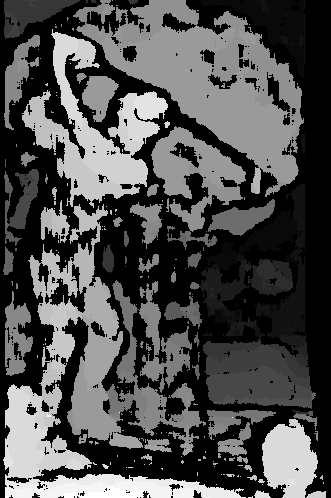
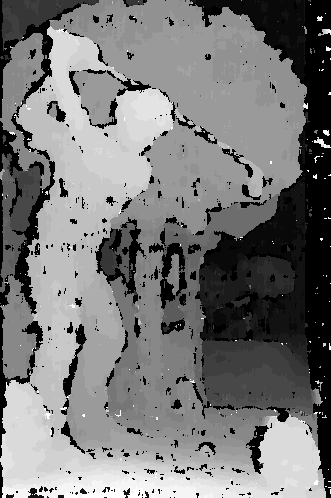
Increase min_diff_threshold for better results

diff --git a/magic_eye_reverser.py b/magic_eye_reverser.py
@@ -138,7 +138,7 @@ def select_diff(diff_images, window_name="Shift Selector", trackbar_name="Shift"
     return current_index
 
 
-def reverse_magic_eye(input_filename, output_filename):
+def reverse_magic_eye(input_filename, output_filename, min_diff_threshold=40):
     # Load the Magic Eye image
     magic_eye_img = cv2.imread(input_filename, cv2.IMREAD_GRAYSCALE)
     if magic_eye_img is None:
@@ -148,8 +148,6 @@ def reverse_magic_eye(input_filename, output_filename):
 
     min_possible_shift = width // 20
     max_possible_shift = width // 2
-
-    mean_diff_threshold = 25
 
     time.sleep(0.5)
 
@@ -188,7 +186,7 @@ def reverse_magic_eye(input_filename, output_filename):
 
                 diff_val = diff_image[y, shifted_x]
 
-                if diff_val < mean_diff_threshold and diff_val < min_diff_val:
+                if diff_val < min_diff_threshold and diff_val < min_diff_val:
                     min_diff_val = diff_val
                     best_index = index
 
